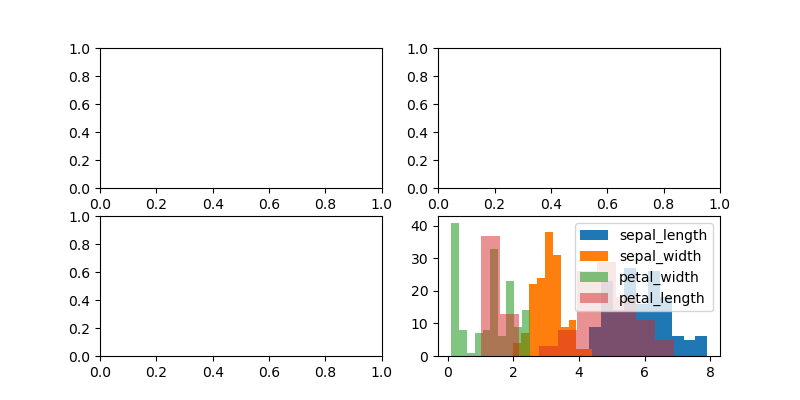
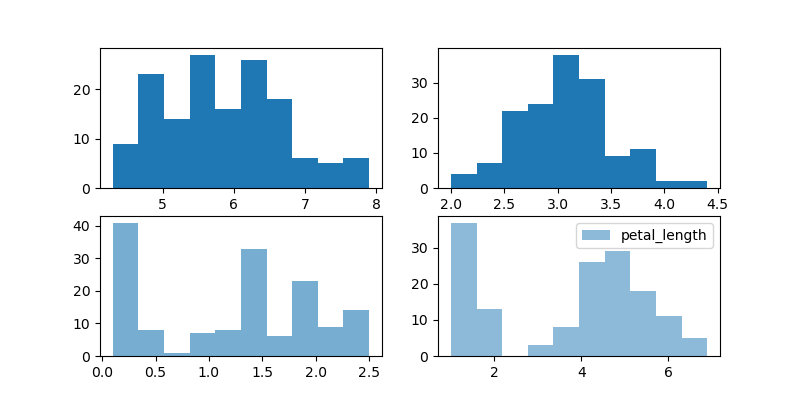
ax added to create 4 hist in 1 file 2 above and 2 below

diff --git a/analysistest.py b/analysistest.py
@@ -31,10 +31,10 @@ print(data.species.value_counts())
 #plots all 4 attributes
 fig, ax = plt.subplots(2, 2, figsize = (8, 4))
 #saves 4 figures for each attribute into one figure
-plt.hist(data[0], label=cols[0])
-plt.hist(data[1], alpha=1, label=cols[1])
-plt.hist(data[2], alpha=0.6, label=cols[2])
-plt.hist(data[3], alpha=0.5, label=cols[3])
+ax[0, 0].hist(data[0], label=cols[0])
+ax[0, 1].hist(data[1], alpha=1, label=cols[1])
+ax[1, 0].hist(data[2], alpha=0.6, label=cols[2])
+ax[1, 1].hist(data[3], alpha=0.5, label=cols[3])
 #alpha 1 makes top most shape transparent fully, the rest lesser modes of transparancy
 plt.legend()
 plt.savefig("attributeshistograms")
